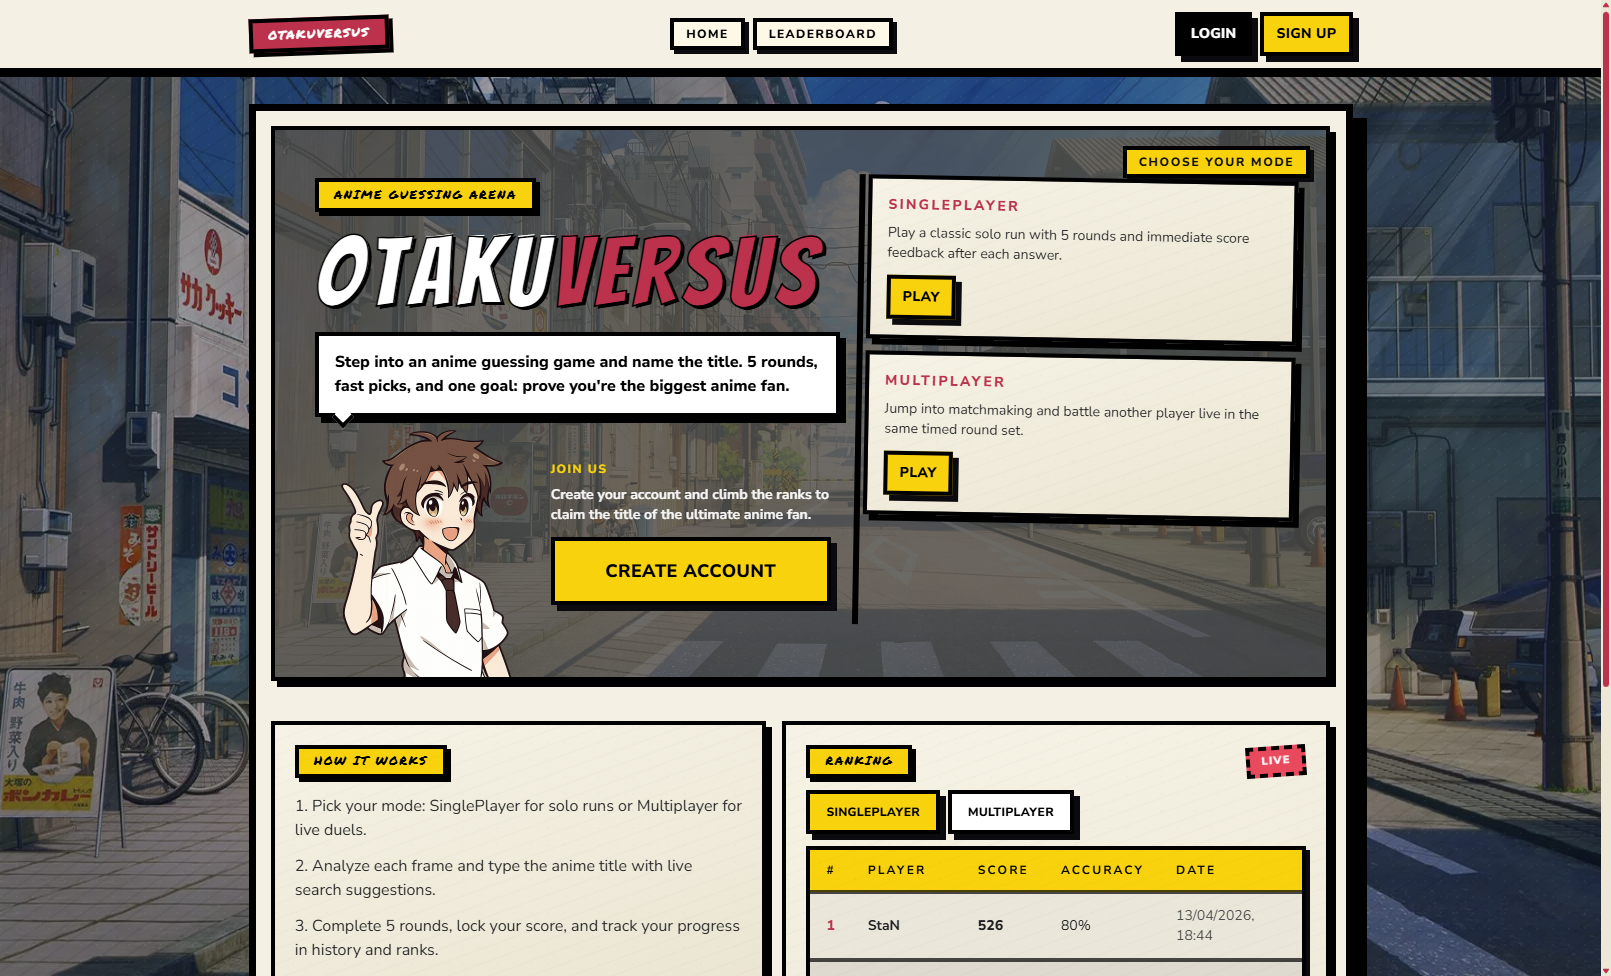
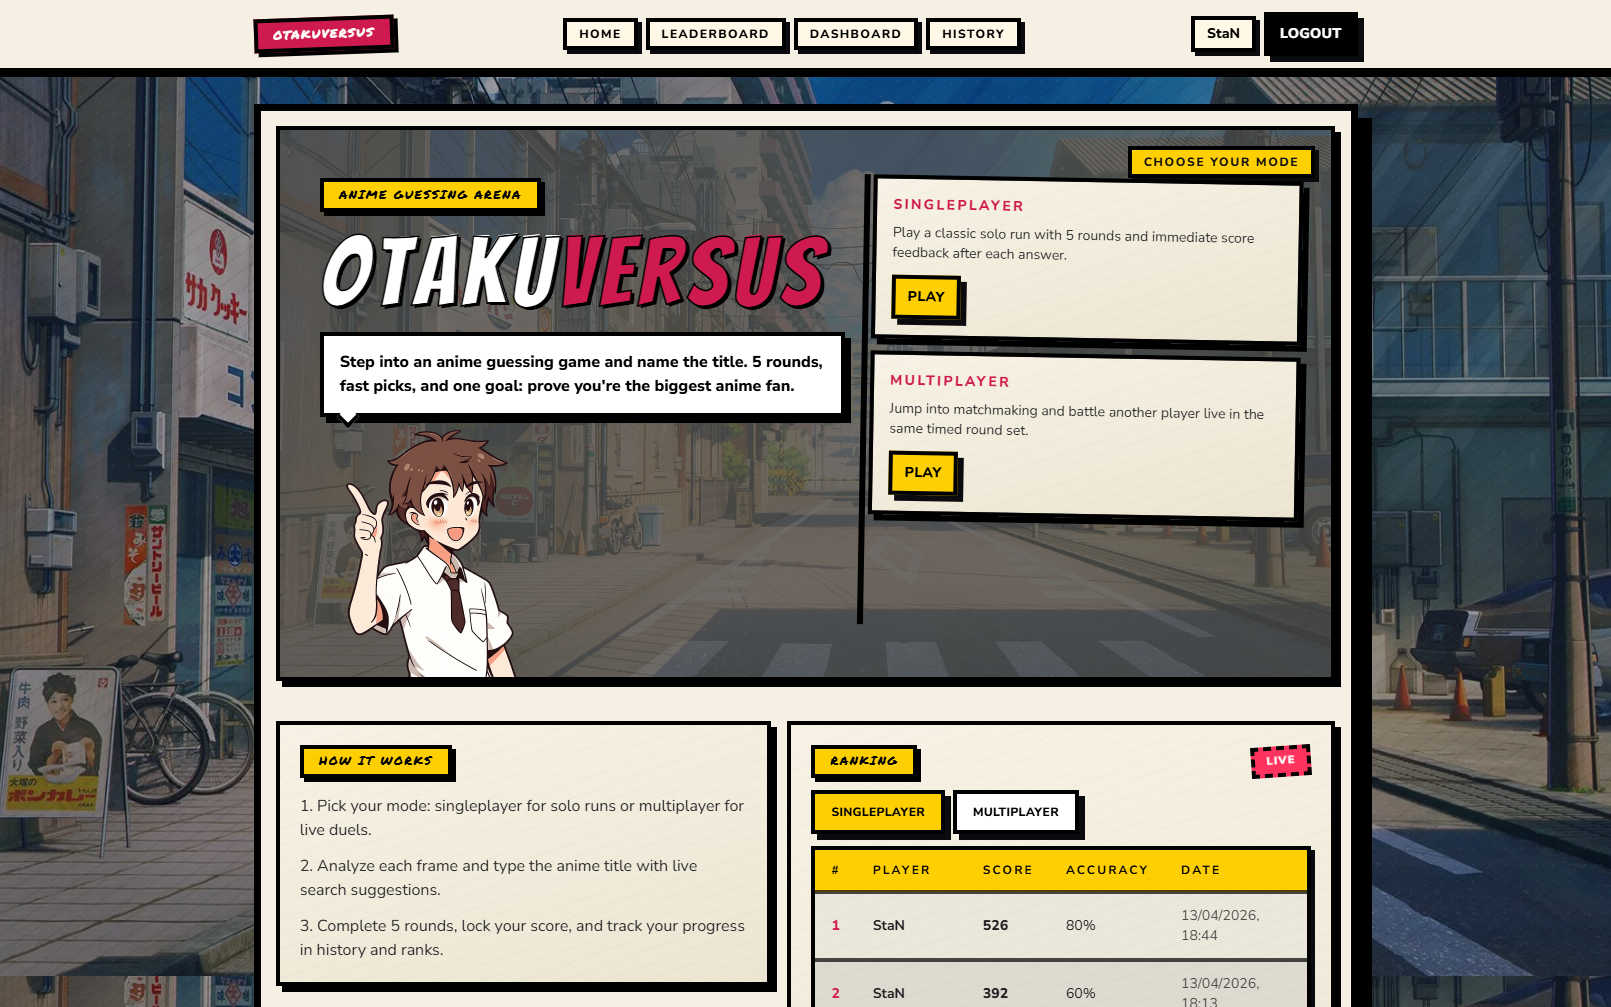
chore: remove unused anime card and update landing mode labels

diff --git a/client/src/pages/landing-page.tsx b/client/src/pages/landing-page.tsx
@@ -39,7 +39,7 @@ export function LandingPage() {
         <Card>
           <span className="comic-kicker">How It Works</span>
           <ol className="mt-4 space-y-3 text-base-ink/85">
-            <li>1. Pick your mode: SinglePlayer for solo runs or Multiplayer for live duels.</li>
+            <li>1. Pick your mode: singleplayer for solo runs or multiplayer for live duels.</li>
             <li>2. Analyze each frame and type the anime title with live search suggestions.</li>
             <li>3. Complete 5 rounds, lock your score, and track your progress in history and ranks.</li>
           </ol>
@@ -57,7 +57,7 @@ export function LandingPage() {
               onClick={() => setRankingView('single')}
               className="px-3 py-1 text-xs focus:ring-0 focus:ring-offset-0"
             >
-              Singleplayer
+              singleplayer
             </Button>
             <Button
               type="button"
@@ -65,7 +65,7 @@ export function LandingPage() {
               onClick={() => setRankingView('elo')}
               className="px-3 py-1 text-xs focus:ring-0 focus:ring-offset-0"
             >
-              Multiplayer
+              multiplayer
             </Button>
           </div>
           <div className="mt-3 overflow-hidden border-[4px] border-black bg-[#f8f3e6] shadow-sticker">

diff --git a/client/src/components/game-mode-section.tsx b/client/src/components/game-mode-section.tsx
@@ -75,7 +75,7 @@ export function GameModeSection({
 
         <div className="space-y-3 panel-overlap-right">
           <div className="manga-panel p-4">
-            <p className="text-sm font-black uppercase tracking-[0.16em] text-[#cf1a4f]">SinglePlayer</p>
+            <p className="text-sm font-black uppercase tracking-[0.16em] text-[#cf1a4f]">singleplayer</p>
             <p className="mt-2 text-sm text-base-ink/85">
               Play a classic solo run with 5 rounds and immediate score feedback after each answer.
             </p>
@@ -86,7 +86,7 @@ export function GameModeSection({
             </div>
           </div>
           <div className="manga-panel p-4">
-            <p className="text-sm font-black uppercase tracking-[0.16em] text-[#cf1a4f]">Multiplayer</p>
+            <p className="text-sm font-black uppercase tracking-[0.16em] text-[#cf1a4f]">multiplayer</p>
             <p className="mt-2 text-sm text-base-ink/85">
               Jump into matchmaking and battle another player live in the same timed round set.
             </p>
